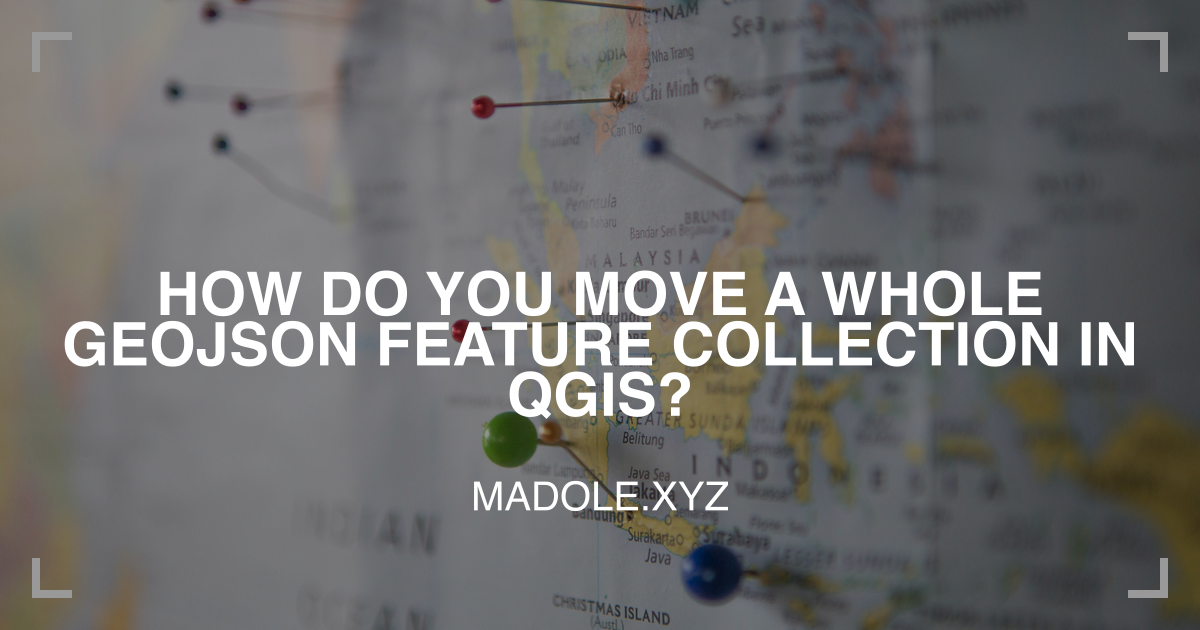
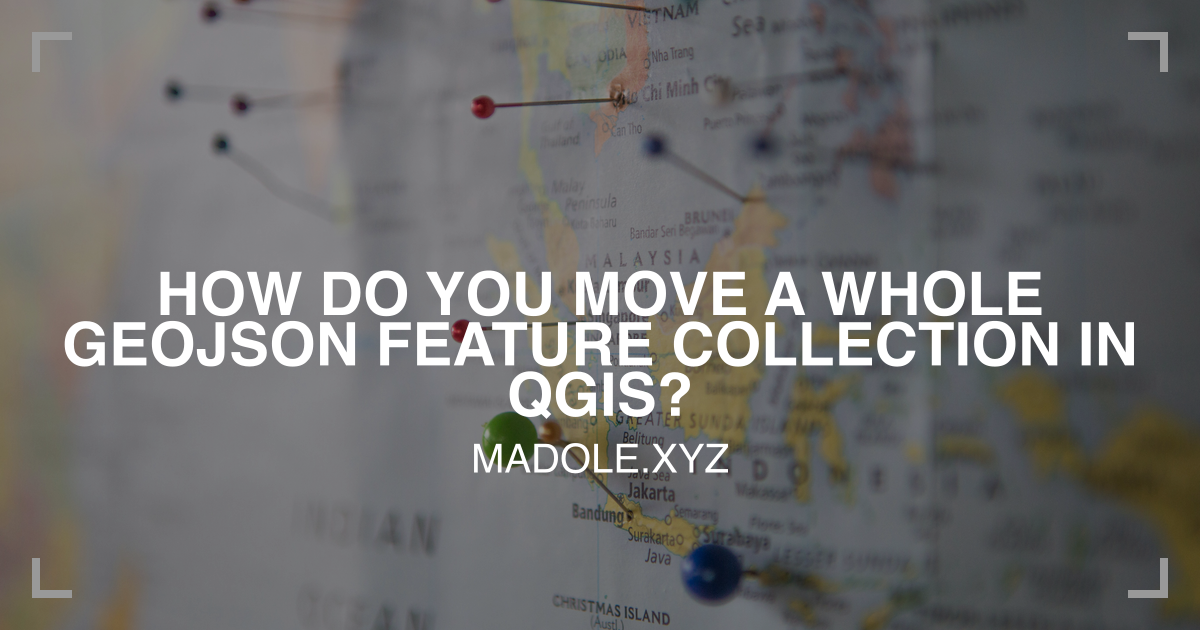
style(generate-og-image): adjust title and site name spacing for improved layout

Changed region(s): [[0.37, 0.6937, 0.6167, 0.8143]]

diff --git a/scripts/generate-og-image.js b/scripts/generate-og-image.js
@@ -4,6 +4,9 @@ const sharp = require("sharp");
 const yaml = require("js-yaml");
 const frontMatter = require("front-matter");
 
+const TITLE_LINE_SPACING = 8
+const SITE_NAME_SPACING = 5
+
 const [slug, imageUrl] = process.argv.slice(2);
 
 if (!slug || !imageUrl) {
@@ -29,7 +32,7 @@ const generateImage = async () => {
 
     const width = 1200;
     const height = 630;
-    // Split title into lines of max 40 characters
+    // Split title into lines of max 30 characters
     const splitNewLineTitle = title
       .split(' ')
       .reduce((lines, word) => {
@@ -72,10 +75,10 @@ const generateImage = async () => {
         ${splitNewLineTitle
         .map(
           (line, i) =>
-          `<text x="50%" y="${50 + i * 8 }%" dominant-baseline="middle" text-anchor="middle" class="title">${line.toUpperCase()}</text>`
+          `<text x="50%" y="${50 + i * TITLE_LINE_SPACING }%" dominant-baseline="middle" text-anchor="middle" class="title">${line.toUpperCase()}</text>`
         )
         .join('\n')}
-        <text x="50%" y="${60 + splitNewLineTitle.length * 7}%" dominant-baseline="middle" text-anchor="middle" class="site-name">MADOLE.XYZ</text>
+        <text x="50%" y="${60 + splitNewLineTitle.length * SITE_NAME_SPACING}%" dominant-baseline="middle" text-anchor="middle" class="site-name">MADOLE.XYZ</text>
       </g>
       </svg>
     `;
